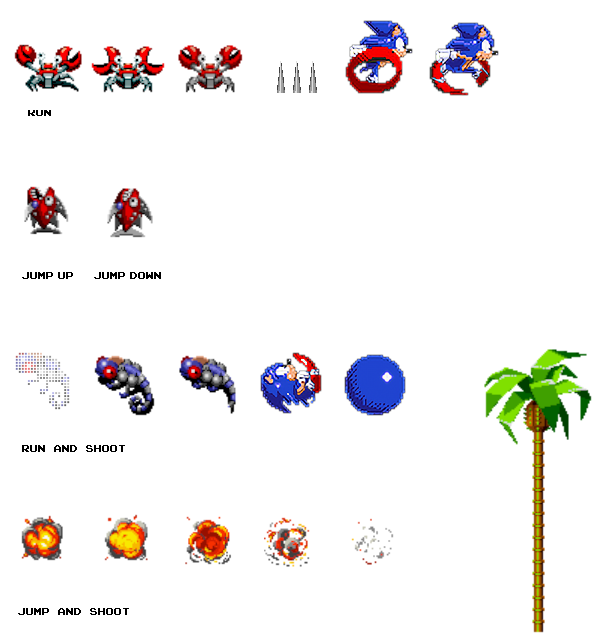
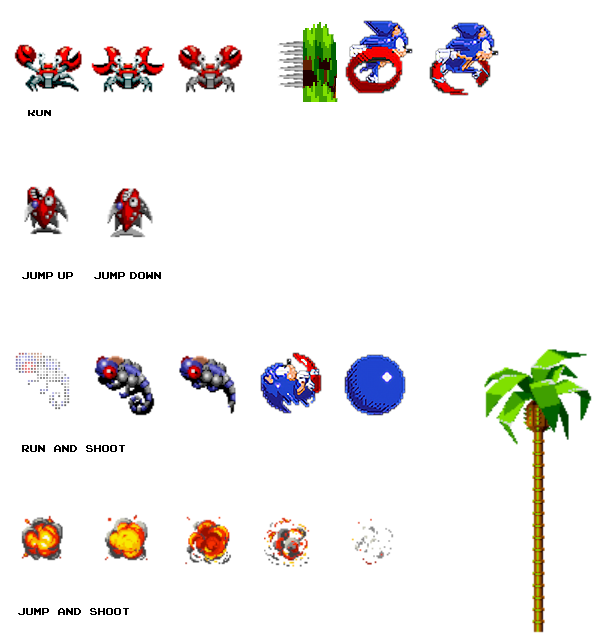
Some minor fixed and changes

Changed region(s): [[0.45, 0.0299, 0.57, 0.1792]]

diff --git a/src/GameScene.java b/src/GameScene.java
@@ -26,7 +26,7 @@ public class GameScene extends Scene {
     private String syspath = System.getProperty("user.dir");
     private double x=500;
     private int subindex=0;
-    private int minspawnduration=10;
+    private int minspawnduration=50;
     private int indexpois = 0;
     private int minspawnindexpois = 5; // Un poisson ne spawnera que tous les 5 enemis .
     public Camera getMainCamera() {
@@ -110,21 +110,28 @@ public class GameScene extends Scene {
     public void enemiSpwaner(long time, Group g,Camera cam) {
         subindex++;
         if (subindex==minspawnduration) {
+            // On crée un enemie avec sa propre spritesheet
             int random = new Random().nextInt(5);
             Image enemispritesheet = new Image(syspath + "\\img\\crab.png");
             ImageView enemisprite = new ImageView(enemispritesheet);
+            // On randomise l'apparition;
             if (random == 1) {
                 indexpois++;
                 double ytoset = 220;
+                //On randomise le type d'enemi
                 int enemiType = new Random().nextInt(4);
+                // certains enemis comme type 2 et type 3 .resp. poissons et trucs dans les arbres nécessitent l'utilisation d'un obet de décors
+                // pont ou arbre.
                 if (enemiType == 2 && indexpois==5) {
                     ytoset = 400;// the fish as offset as it comes from the ground and it is definitely more complicated as fish does not live in the ground.....
+                    //Ajout du pont
                     Image bridgeImg = new Image(syspath + "\\img\\bridge.png");
                     ImageView bridge = new ImageView(bridgeImg);
                     enemis.add(new Enemi(heros.getX() + 600, 0, bridge, 8));
                     g.getChildren().add(enemis.get(enemis.size() - 1).getImgView());
                 } else if (enemiType == 3) {
                     ytoset = 20;// the thing in a tree is more complicated as it need a tree
+                    //Ajout de l'arbre
                     Image treesheet = new Image(syspath + "\\img\\crab.png");
                     ImageView tree = new ImageView(treesheet);
                     enemis.add(new Enemi(heros.getX() + 600, 20, tree, 5));

diff --git a/src/Hero.java b/src/Hero.java
@@ -22,11 +22,11 @@ public class Hero extends AnimatedThing {
     }
     public void update(long time,Camera cam){
         subindex++;
-        if (subindex>frameduration) {subindex=0;index++;}
+        if (subindex>frameduration) {subindex=0;index++;} // réduction du temps frames
         if (index>maxindex) index=0;
         if (attitude==0) {
             imgView.setViewport(new Rectangle2D(0 + (85 * (index % 6)), 0, 85, 100));
-        } else if (attitude==1) {
+        } else if (attitude==1) { // Saut simplifié
             if (y > 10) {
                 y -=7 ;
                 imgView.setViewport(new Rectangle2D(0, 160, 85, 100));
@@ -34,7 +34,7 @@ public class Hero extends AnimatedThing {
                 attitude=2;
             }
         }
-        else if (attitude==2) {
+        else if (attitude==2) { // descente simplifiée
             if (y < 219) {
                 y +=7;
                 imgView.setViewport(new Rectangle2D(85, 160, 85, 100));

diff --git a/src/Enemi.java b/src/Enemi.java
@@ -34,7 +34,7 @@ public class Enemi extends AnimatedThing{
         //Fish Up
         else if (EnemiType==2) {
             if (y > 10) {
-                y -=7 ;
+                y -=5 ;
                 imgView.setViewport(new Rectangle2D(0, 160, 85, 100));
             } else {
                 EnemiType=4;
@@ -47,7 +47,7 @@ public class Enemi extends AnimatedThing{
         //Fish Down
         else if (EnemiType==4) {
             if (y < 500) {
-                y +=7;
+                y +=5;
                 imgView.setViewport(new Rectangle2D(85, 160, 85, 100));
             } else {
                 EnemiType=0;
